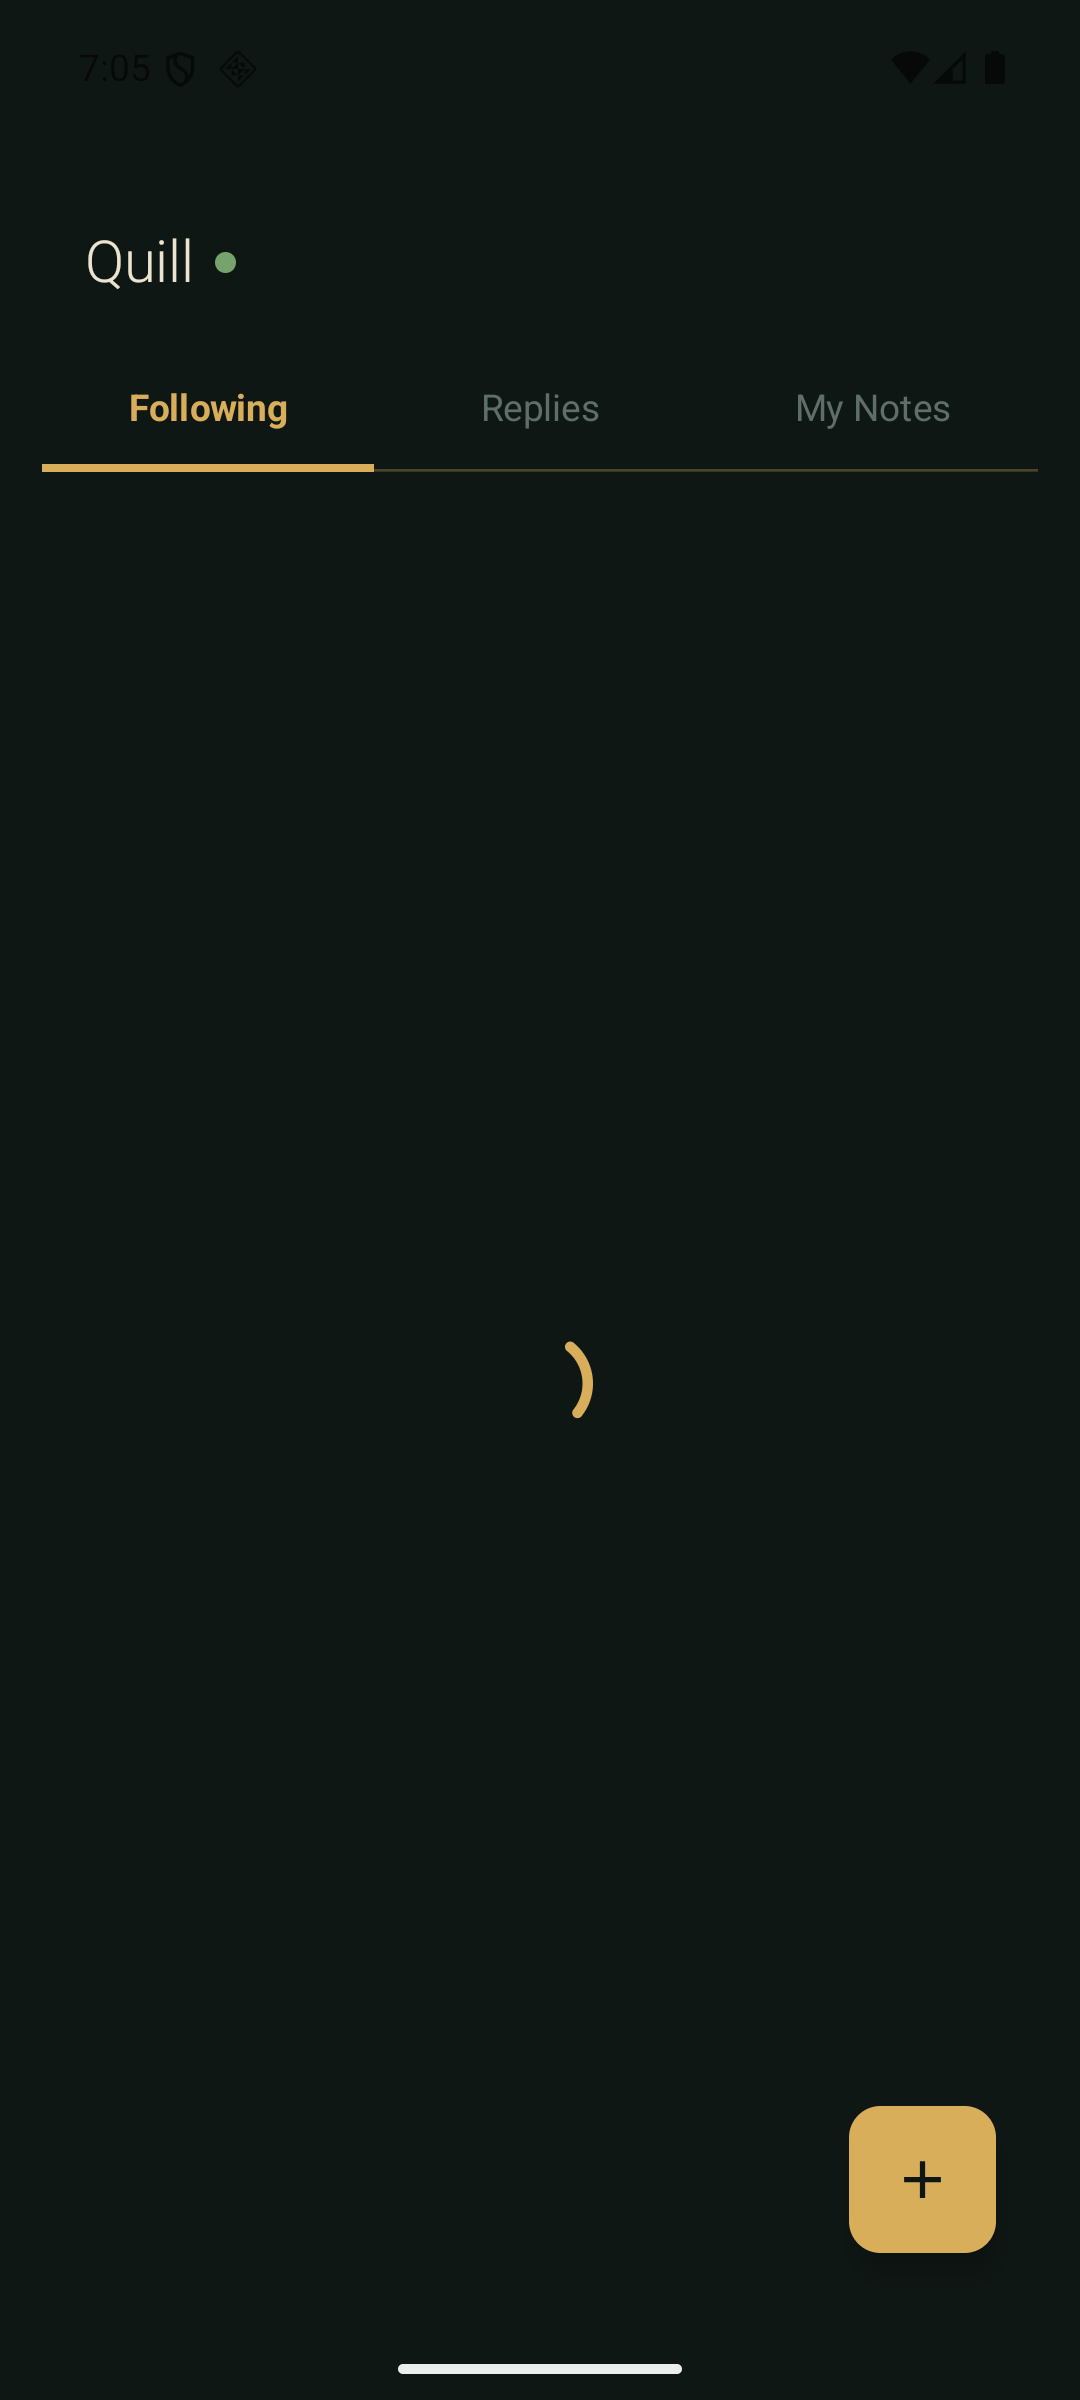
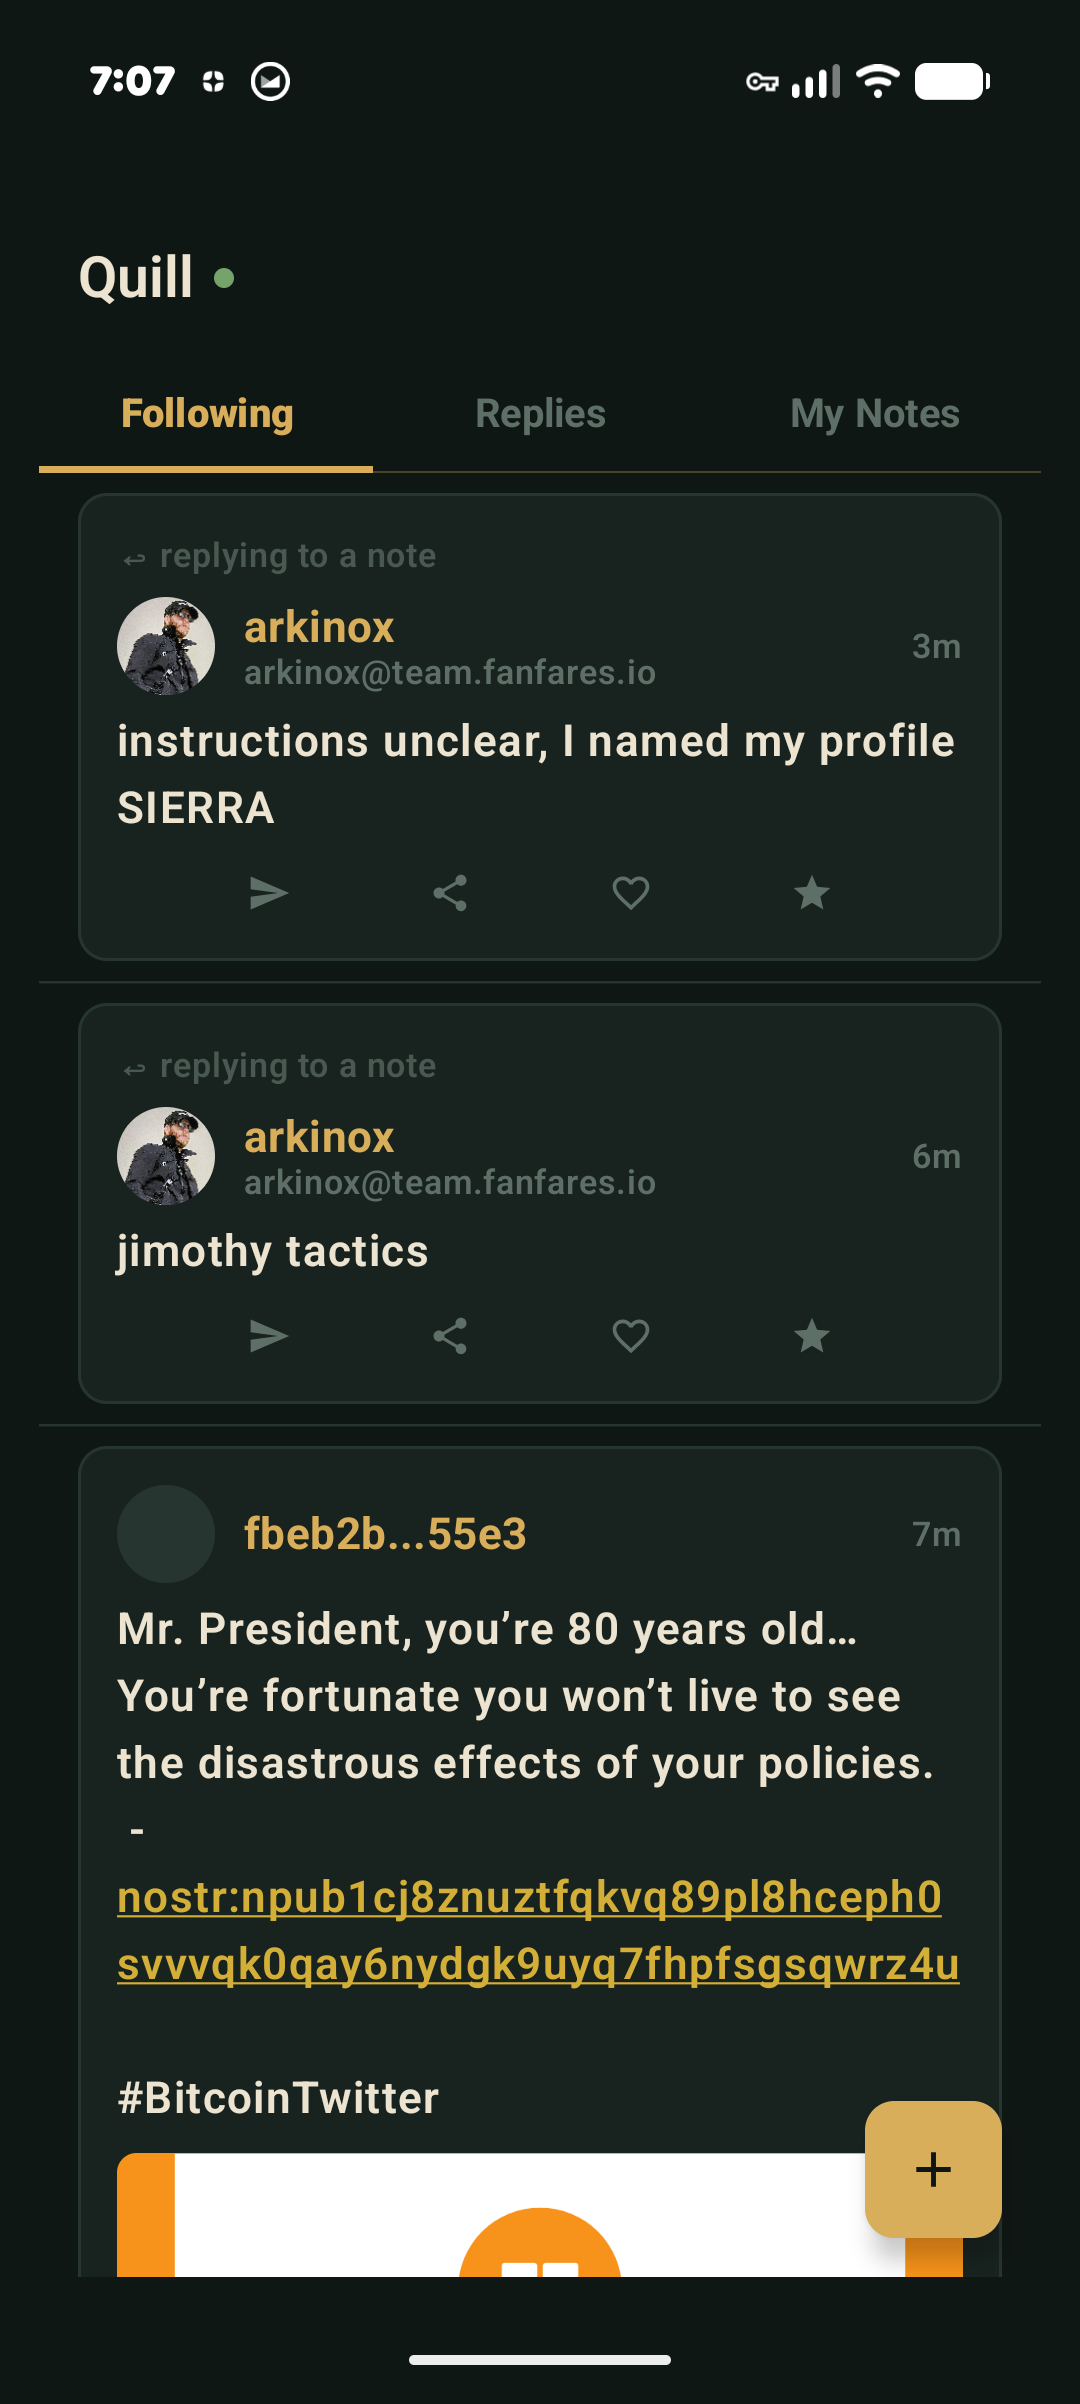
Replace screenshots with Tim's phone captures, clean up README layout

diff --git a/README.md b/README.md
@@ -4,12 +4,6 @@ A Nostr client for Android that never holds your keys. It reads from relays
 directly and signs everything through Omostrich, your desktop signer daemon,
 over Tailscale. The nsec stays on your laptop. The phone is just a window.
 
-<p align="center">
-  <img src="docs/screenshots/feed.png" width="32%" alt="Following feed">
-  <img src="docs/screenshots/replies.png" width="32%" alt="Replies tab">
-  <img src="docs/screenshots/my-notes.png" width="32%" alt="My Notes tab">
-</p>
-
 ## How it works
 
 ```
@@ -40,20 +34,11 @@ key it already holds. The signed event comes back and the phone publishes it.
 
 ## Screenshots
 
-### Feed
-![Following feed](docs/screenshots/feed.png)
-
-### Replies
-![Replies tab](docs/screenshots/replies.png)
-
-### My Notes
-![My Notes tab](docs/screenshots/my-notes.png)
-
-### Thread view
-![Thread view](docs/screenshots/thread.png)
-
-### Compose
-![Compose sheet](docs/screenshots/compose.png)
+<p align="center">
+  <img src="docs/screenshots/feed.png" width="30%" alt="Following feed">
+  <img src="docs/screenshots/replies.png" width="30%" alt="Replies tab">
+  <img src="docs/screenshots/my-notes.png" width="30%" alt="My Notes tab">
+</p>
 
 ## What it does
 
